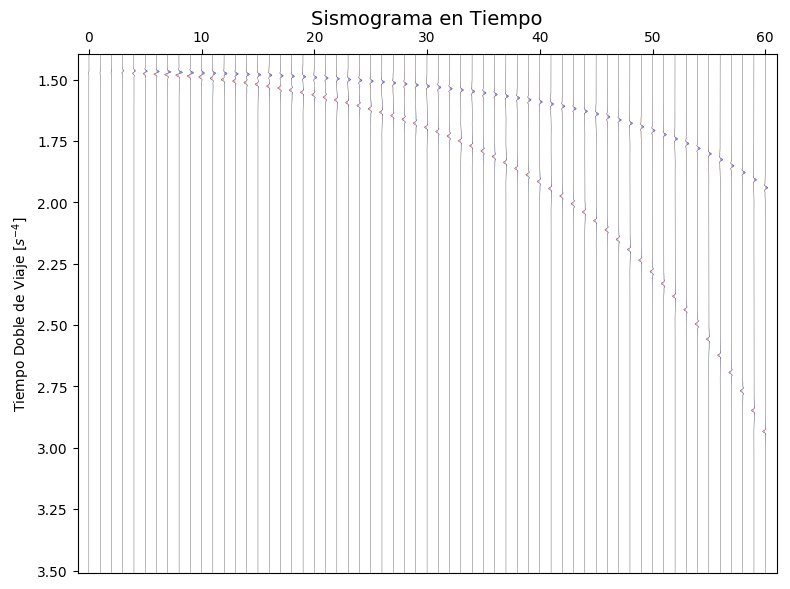
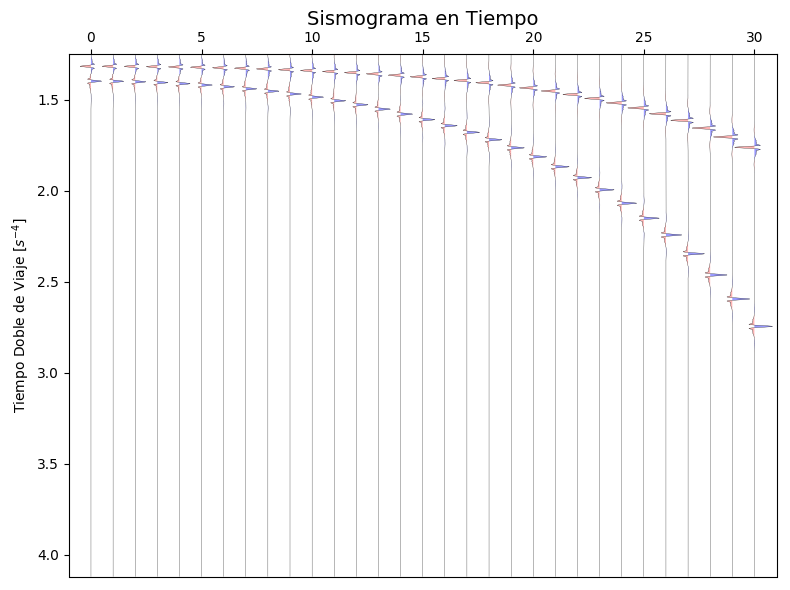
Ostrander tested

Changed region(s): [[0.0, 0.0, 0.9722, 0.9779]]

diff --git a/simplemodel.py b/simplemodel.py
@@ -1,7 +1,6 @@
 #!/usr/bin/env python
 # -*- coding: utf-8 -*-
 # ------------------------------------------------------------------
-# Filename: wedgefunctions.py
 #  Purpose: A.FVO wedge Analysis
 #   Author: Vidal Gonzalez P
 #    Email: vidalgonz8@gmail.com
@@ -164,8 +163,8 @@ def main():
     topdepth = 2005
     angmax = 40
     angstep = 2
-    dhmin = 50
-    dhmax = 51
+    dhmin = 100
+    dhmax = 101
     dhstep = 1 
     global TH, B, RU, RL, TT, TB, DH
     TH, B, RU, RL, TT, TB, DH= simple_array_maker(mod, dhmin, dhmax, dhstep, angmax, angstep, \
@@ -179,7 +178,7 @@ def main():
     ymax = dimY*dt
     ymin = TT[0].min()* 0.95
     seismik = Seismic(dt, dimX, dimY, dimZ)
-    create_timeModel(seismik, mod, dt, TH, TB, TT, Aq)
+    create_timeModel(seismik, mod, dt, np.degrees(TH), TB, TT, Aq)
     
     Tmin = TT - 0.1
     Tmax = 0.5 * (TT + TB)
@@ -189,19 +188,19 @@ def main():
     print('\nStarting AFVO single computations\n')
     for dh in range(0, seismik.zLen, 1):
         print(('AFVO for dh = {}m').format(dh * dhstep + dhmin))
-        #plot_AFVO(seismik.get_amplitude[dh], np.degrees(TH[dh]), Tmin[dh], Tmax[dh], Bmin[dh], \
-        #        Bmax[dh], seismik.dt, ('TopBase_{}').format(dh * dhstep + dhmin))
-        plot_AFVO_exact(seismik.get_amplitude[dh], np.degrees(TH[dh]), TT[dh], TB[dh], \
-                seismik.dt,('TopBase_{}').format(dh*dhstep))
+        plot_AFVO(seismik.get_amplitude[dh], np.degrees(TH[dh]), Tmin[dh], Tmax[dh], Bmin[dh], \
+                Bmax[dh], seismik.dt, ('TopBase_{}').format(dh * dhstep + dhmin))
+        #plot_AFVO_exact(seismik.get_amplitude[dh], np.degrees(TH[dh]), TT[dh], TB[dh], \
+        #        seismik.dt,('TopBase_{}').format(dh*dhstep))
         seismik.plot_seismogram(ymin=ymin, ymax=ymax, excursion=3, z=dh)
         plt.close('all') 
     
     dh = seismik.zLen - 1
     seismik.plot_seismogram(ymin=ymin, ymax=ymax, excursion=3, z=dh)
-    #plot_AFVO(seismik.get_amplitude[dh], np.degrees(TH[dh]), Tmin[dh], Tmax[dh], Bmin[dh], \
-    #        Bmax[dh], seismik.dt,('TopBase_{}').format(dh*dhstep))
-    plot_AFVO_exact(seismik.get_amplitude[dh], np.degrees(TH[dh]), TT[dh], TB[dh], \
-            seismik.dt,('TopBase_{}').format(dh*dhstep))
+    plot_AFVO(seismik.get_amplitude[dh], np.degrees(TH[dh]), Tmin[dh], Tmax[dh], Bmin[dh], \
+            Bmax[dh], seismik.dt,('TopBase_{}').format(dh*dhstep))
+    #plot_AFVO_exact(seismik.get_amplitude[dh], np.degrees(TH[dh]), TT[dh], TB[dh], \
+    #        seismik.dt,('TopBase_{}').format(dh*dhstep))
     
     global fullArray, tminT, tmaxT
     totalTraces = seismik.zLen * seismik.xTraces
